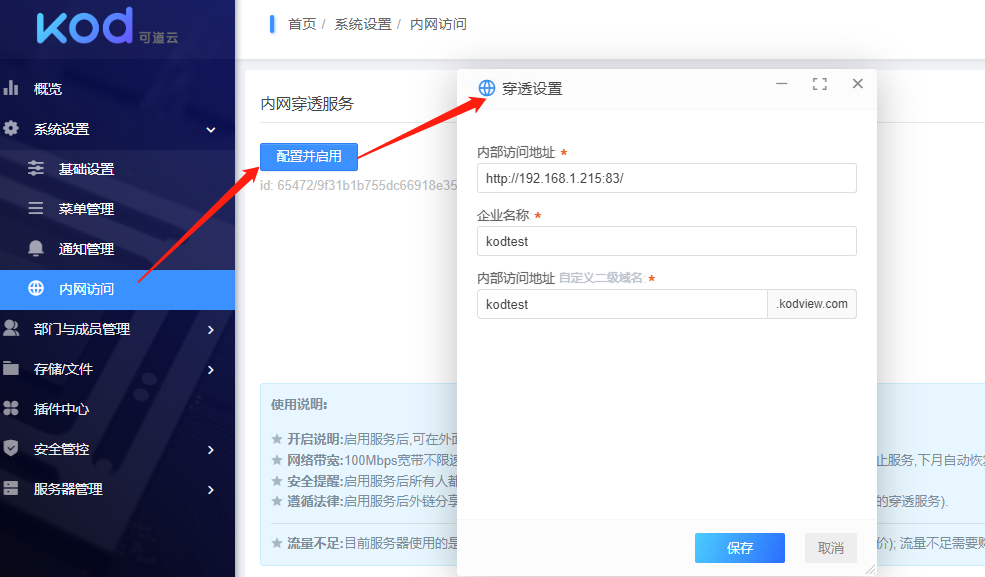
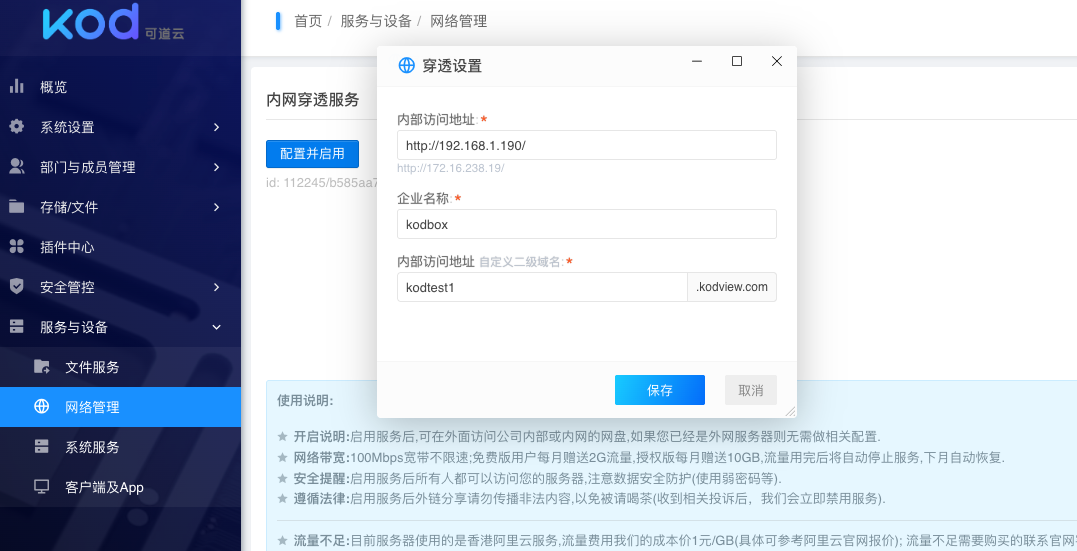
更新穿透位置

diff --git a/admin/docnet.md b/admin/docnet.md
@@ -12,9 +12,11 @@ description: 关于内网穿透插件安装、配置的相关说明
 
 ### 配置插件
 
-1. 在插件中心确认内网穿透插件已安装。
+管理员登录后，点左下头像进入**后台管理**。
+
+1. 在插件中心确认**内网穿透**插件已安装。
 ![docnet1](../images/docnet0.png){:width="650px"}
-2. 管理员登录, 后台管理--系统设置--内网穿透(子菜单)
+2. 在**服务与设备**--**网络管理**
     - 未配置时, 显示"配置并启用"
     - 已配置时, 显示访问域名及服务运行状态.
 3. 启用穿透配置: 填写二级域名,内网访问站点url(默认自动获取填写)

diff --git a/admin/docsearch.md b/admin/docsearch.md
@@ -48,6 +48,7 @@ description: 关于全文搜索插件的配置说明
    ALTER TABLE `group_meta` ADD FULLTEXT (`value`);
    ALTER TABLE `io_source` ADD FULLTEXT (`name`);
    ALTER TABLE `io_source_meta` ADD FULLTEXT (`value`);
+   -- 这步可能非常耗时，和文件数量相关
    ALTER TABLE `io_file_contents` ADD FULLTEXT (`content`) WITH PARSER ngram;
    ```
 
